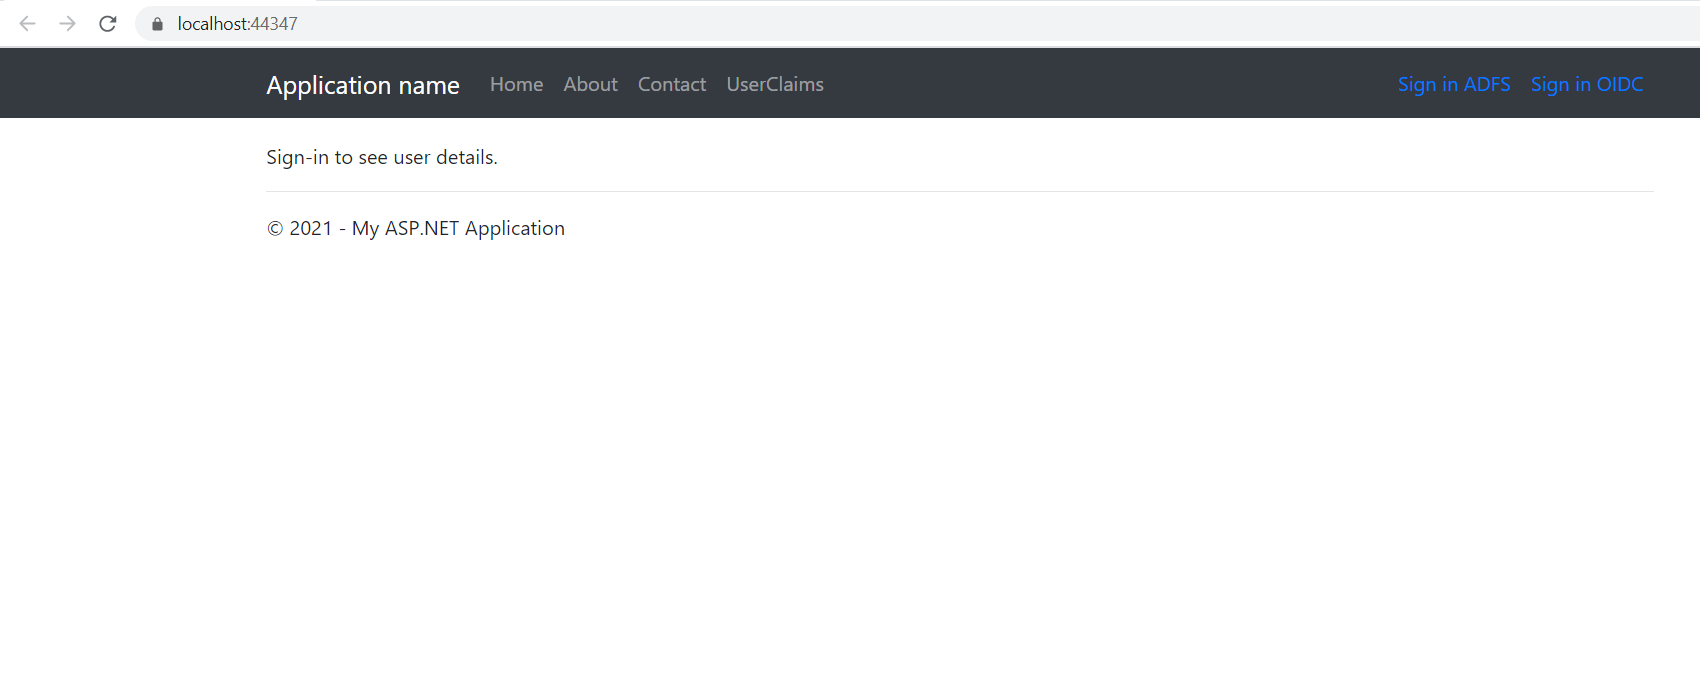
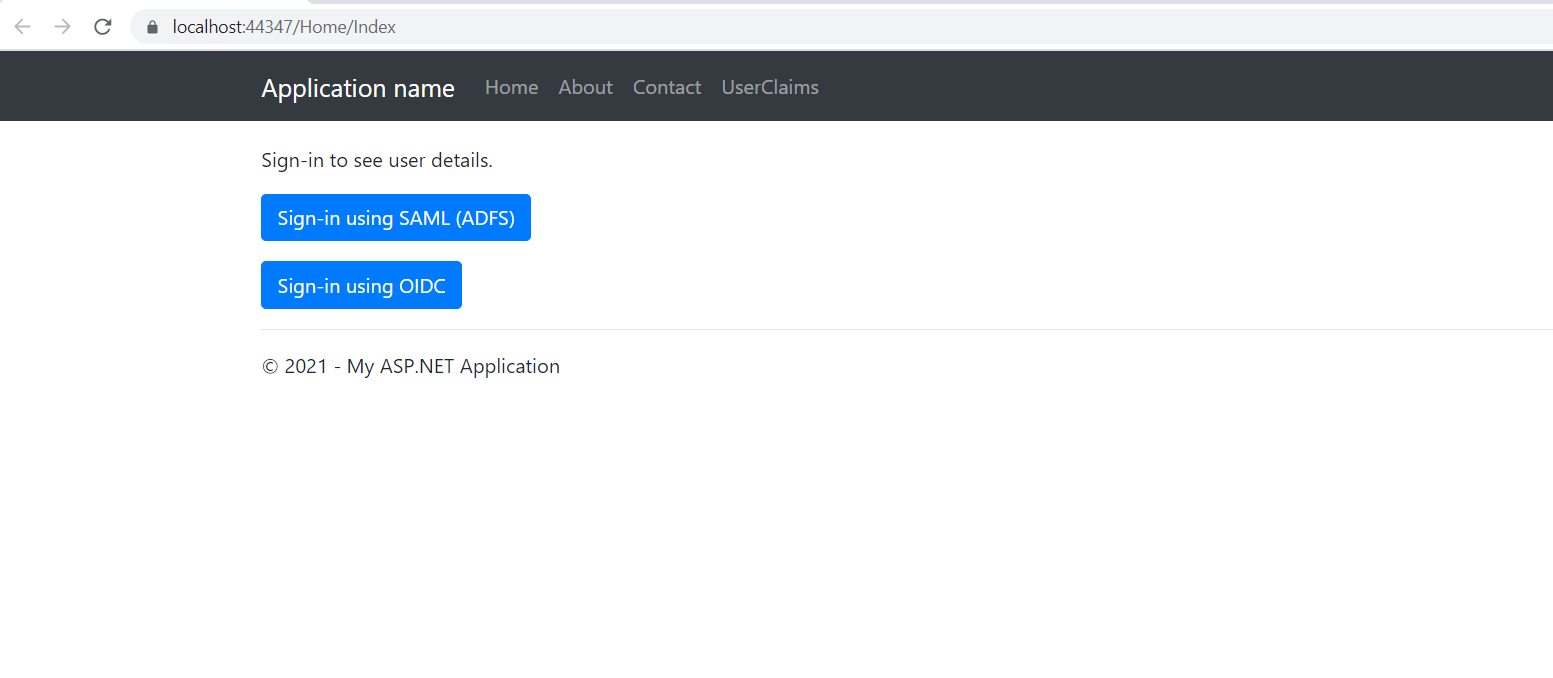
Updated As Per Review Comments

diff --git a/SAML-OIDC/WebApp_SAML_OIDC/App_Start/Startup.Auth.cs b/SAML-OIDC/WebApp_SAML_OIDC/App_Start/Startup.Auth.cs
@@ -17,22 +17,31 @@ namespace WebApp_SAML_OIDC
 {
     public partial class Startup
     {
+        // URI that identifies the Relying Party.
         private static string realm = ConfigurationManager.AppSettings["ida:Wtrealm"];
+        //Address to retrieve the wsFederation metadata.
         private static string adfsMetadata = ConfigurationManager.AppSettings["ida:ADFSMetadata"];
 
+        // The Client ID used by the application to uniquely identify itself to Azure AD.
         private static string clientId = ConfigurationManager.AppSettings["ida:ClientId"];
-        private static string aadInstance = EnsureTrailingSlash(ConfigurationManager.AppSettings["ida:AADInstance"]);
+        // Tenant ID where the application is registered (e.g. Z963c147-dc13-433f-9520-6db1ff177c34).
         private static string tenantId = ConfigurationManager.AppSettings["ida:TenantId"];
         private static string postLogoutRedirectUri = ConfigurationManager.AppSettings["ida:PostLogoutRedirectUri"];
+        private static string aadInstance = EnsureTrailingSlash(ConfigurationManager.AppSettings["ida:AADInstance"]);
+        // Authority is the URL for authority, composed by Microsoft identity platform endpoint and the tenant name (e.g. https://login.microsoftonline.com/contoso.onmicrosoft.com/v2.0)
         private static string authority = aadInstance + tenantId;
 
+        /// <summary>
+        /// Configure OWIN to use OpenID Connect and SAML
+        /// </summary>
+        /// <param name="app"></param>
         public void ConfigureAuth(IAppBuilder app)
         {
             app.SetDefaultSignInAsAuthenticationType(CookieAuthenticationDefaults.AuthenticationType);
 
             app.UseCookieAuthentication(new CookieAuthenticationOptions());
 
-            // Adds the OpenIdConnectAuthenticationMiddleware into the OWIN runtime.
+            // Adds the OpenIdConnectAuthenticationMiddleware into the OWIN runtime to authenticate using OpenID Connect.
             app.UseOpenIdConnectAuthentication(
                 new OpenIdConnectAuthenticationOptions
                 {
@@ -44,17 +53,17 @@ namespace WebApp_SAML_OIDC
                         SecurityTokenValidated = context =>
                         {
                             var identity = context.AuthenticationTicket.Identity;
-                            Claim claim = new Claim(Constants.AuthenticationType, OpenIdConnectAuthenticationDefaults.AuthenticationType);
 
                             // Adds AuthenticationType claim in claims collection to verify if the user has logged-in using OIDC or SAML
+                            Claim claim = new Claim(Constants.AuthenticationType, OpenIdConnectAuthenticationDefaults.AuthenticationType);
                             identity.AddClaim(claim);
-                           
+
                             return Task.FromResult(0);
                         }
                     }
                 });
 
-            // Adds the WsFederationAuthenticationMiddleware into the OWIN runtime.
+            // Adds the WsFederationAuthenticationMiddleware into the OWIN runtime to authenticate using SAML.
             app.UseWsFederationAuthentication(
                 new WsFederationAuthenticationOptions
                 {

diff --git a/SAML-OIDC/WebApp_SAML_OIDC/Controllers/AccountController.cs b/SAML-OIDC/WebApp_SAML_OIDC/Controllers/AccountController.cs
@@ -14,6 +14,12 @@ namespace WebApp_SAML_OIDC.Controllers
 {
     public class AccountController : Controller
     {
+        /// <summary>
+        /// Send an authentication request based on input parameter named isOIDC.
+        /// If isOIDC is true then sign-in using OpenID Connect.
+        /// Else sign-in using SAML.
+        /// </summary>
+        /// <param name="isOIDC"></param>
         public void SignIn(bool isOIDC)
         {
             
@@ -27,25 +33,35 @@ namespace WebApp_SAML_OIDC.Controllers
                 }
                 else
                 {
+                    // Send a Federation sign-in request.
                     HttpContext.GetOwinContext().Authentication.Challenge(new AuthenticationProperties { RedirectUri = "https://localhost:44347/" },
                         WsFederationAuthenticationDefaults.AuthenticationType);
                 }
             }
         }
 
+        /// <summary>
+        /// Checks the claims collection for AuthenticationType claim. 
+        /// Send the sign-out request based on the presence and value of the AuthenticationType claim.
+        /// </summary>
         public void SignOut()
         {
             string callbackUrl = Url.Action("SignOutCallback", "Account", routeValues: null, protocol: Request.Url.Scheme);
 
             var claimsIdentity = (ClaimsIdentity)User.Identity;
+
+            // Retreive AuthenticationType claim from ClaimsCollection. 
             var claim = claimsIdentity.FindFirst(Constants.AuthenticationType);
 
+            // If AuthenticationType claim exists then sign-out the user on the basis of OpenID Connect.
             if (claim != null && claim.Value == OpenIdConnectAuthenticationDefaults.AuthenticationType)
             {
                 HttpContext.GetOwinContext().Authentication.SignOut(
                 new AuthenticationProperties { RedirectUri = callbackUrl },
                 OpenIdConnectAuthenticationDefaults.AuthenticationType, CookieAuthenticationDefaults.AuthenticationType);
             }
+
+            // If AuthenticationType does not exist then sign-out the user on the basis of Federation.
             else
             {
                 HttpContext.GetOwinContext().Authentication.SignOut(

diff --git a/SAML-OIDC/WebApp_SAML_OIDC/README.md b/SAML-OIDC/WebApp_SAML_OIDC/README.md
@@ -6,11 +6,11 @@ products:
   - dotnet
   - aspnet
   - azure-active-directory  
-name: Signing in users with SAML and OpenIDConnect in the same web application
+name: Signing in users with SAML and OpenID Connect in the same web application
 urlFragment: ms-identity-dotnet-adfs-to-aad
 ---
 
-# Signing in users with SAML and OpenIDConnect in the same web application
+# Signing in users with SAML and OpenID Connect in the same web application
 
  1. [Overview](#overview)
  1. [Scenario](#scenario)
@@ -31,10 +31,12 @@ urlFragment: ms-identity-dotnet-adfs-to-aad
 ## Overview
 
 This sample shows how in a ASP .NET web applications, we can use the libraries provided by Microsoft to sign-in users using multiple federation protocols.
-This particular samples shows using SAML and OpenIDConnect in the same web app.
+This particular samples shows using SAML and OpenID Connect in the same web app.
 This sample addresses complex scenarios where a developer might have to address multiple protocols when adjusting or incorporating multiple Identity Providers.
-  
-This sample uses the `Microsoft.Owin.Security.WsFederation` library for authenticating users using SAML, which we will change to use the `Microsoft.Owin.Security.OpenIdConnect` library instead.
+
+## Disclaimer
+
+This sample does not intend to lay down the pattern or foundations of how this complex situation should be approached or done. This is instead provided as a good starting point for developers to start with and experiment further till it meets their eventual needs.
 
 ## Scenario
 
@@ -126,6 +128,7 @@ As a first step you'll need to:
 1. In the app's registration screen, find and note the **Application (client) ID**. You use this value in your app's configuration file(s) later in your code.
 1. In the app's registration screen, select **Authentication** in the menu.
    - If you don't have a platform added, select **Add a platform** and select the **Web** option.
+   - In **Implicit grant** section, select the check box for **ID tokens**.
    - In the **Front-channel logout URL** section, set it to `https://localhost:44347/signout-oidc`.
 1. Select **Save** to save your changes.
 1. In the app's registration screen, select the **API permissions** blade in the left to open the page where we add access to the APIs that your application needs.
@@ -189,7 +192,9 @@ Open the project in your IDE (like Visual Studio or Visual Studio Code) to confi
 This sample is using the NuGet package **Microsoft.Owin.Security.WsFederation** to configure the authentication with AD FS.
 
 1. Open the **WebApp_SAML_OIDC** application
-1. Open the *Web.config* file and replace the key `ida:ADFSMetadata` value with your AD FS FederationMetadata.xml URI. For instance:
+1. Open the *Web.config* file and replace the key `ida:ADFSMetadata` value with `https://[enter_your_ADFS_hostname]/federationmetadata/2007-06/federationmetadata.xml`
+
+    For instance:
 
     ```xml
     <add key="ida:ADFSMetadata" value="https://sts.contoso.com/FederationMetadata/2007-06/FederationMetadata.xml" />
@@ -205,16 +210,18 @@ This sample is using the NuGet package **Microsoft.Owin.Security.WsFederation** 
 
 ## Explore the sample
 
-1. HomePage displays two Sign-in options on right hand side.
+1. HomePage displays two Sign-in options.
 
     ![HomePage](./ReadmeFiles/HomePage.png)
 
-1. Select **Sign in OIDC**, after successful sign-in user claims will be displayed on HomePage.
+1. Select **Sign-in using OIDC**, after successful sign-in user claims will be displayed on HomePage.
+
     ![OIDC_SignIn](./ReadmeFiles/OIDC_SignIn.png)
 
 1. Select **Sign Out**.
 
-1. Select **Sign in ADFS**, after successful sign-in user claims will be displayed on HomePage.
+1. Select **Sign-in using SAML (ADFS)**, after successful sign-in user claims will be displayed on HomePage.
+
     ![SAML_SignIn](./ReadmeFiles/SAML_SignIn.png)
 
 > :information_source: Did the sample not work for you as expected? Then please reach out to us using the [GitHub Issues](../../../../../issues) page.
@@ -229,7 +236,7 @@ We're always listening, and if you want to get in touch with you directly, send 
 
 1. In `Startup.cs`, update ConfigureAuth method to add authentication middleware.
 
-    Below lines of code adds OpenIdConnect authentication middleware:
+    Below lines of code adds OpenID Connect authentication middleware:
 
     ```csharp
     app.UseOpenIdConnectAuthentication(

diff --git a/README.md b/README.md
@@ -57,11 +57,11 @@ We have also covered the following topics in some detail as they might play a bi
 
 For information about Integrated Windows Authentication (IWA), see [Azure-Samples/active-directory-dotnet-iwa-v2](https://github.com/Azure-Samples/active-directory-dotnet-iwa-v2).
 
-### Chapter 3: Configure web app with SAML and OpenIDConnect
+### Chapter 3: Configure web app with SAML and OpenID Connect
 
 |                                                  |                               |
 |--------------------------------------------------|-------------------------------|
-| [WebApp_SAML_OIDC](SAML-OIDC/WebApp_SAML_OIDC/README.md) | Signing in users with SAML and OpenIDConnect in the same web application. |
+| [WebApp_SAML_OIDC](SAML-OIDC/WebApp_SAML_OIDC/README.md) | Signing in users with SAML and OpenID Connect in the same web application. |
 
 ## We'd love your feedback!
 
